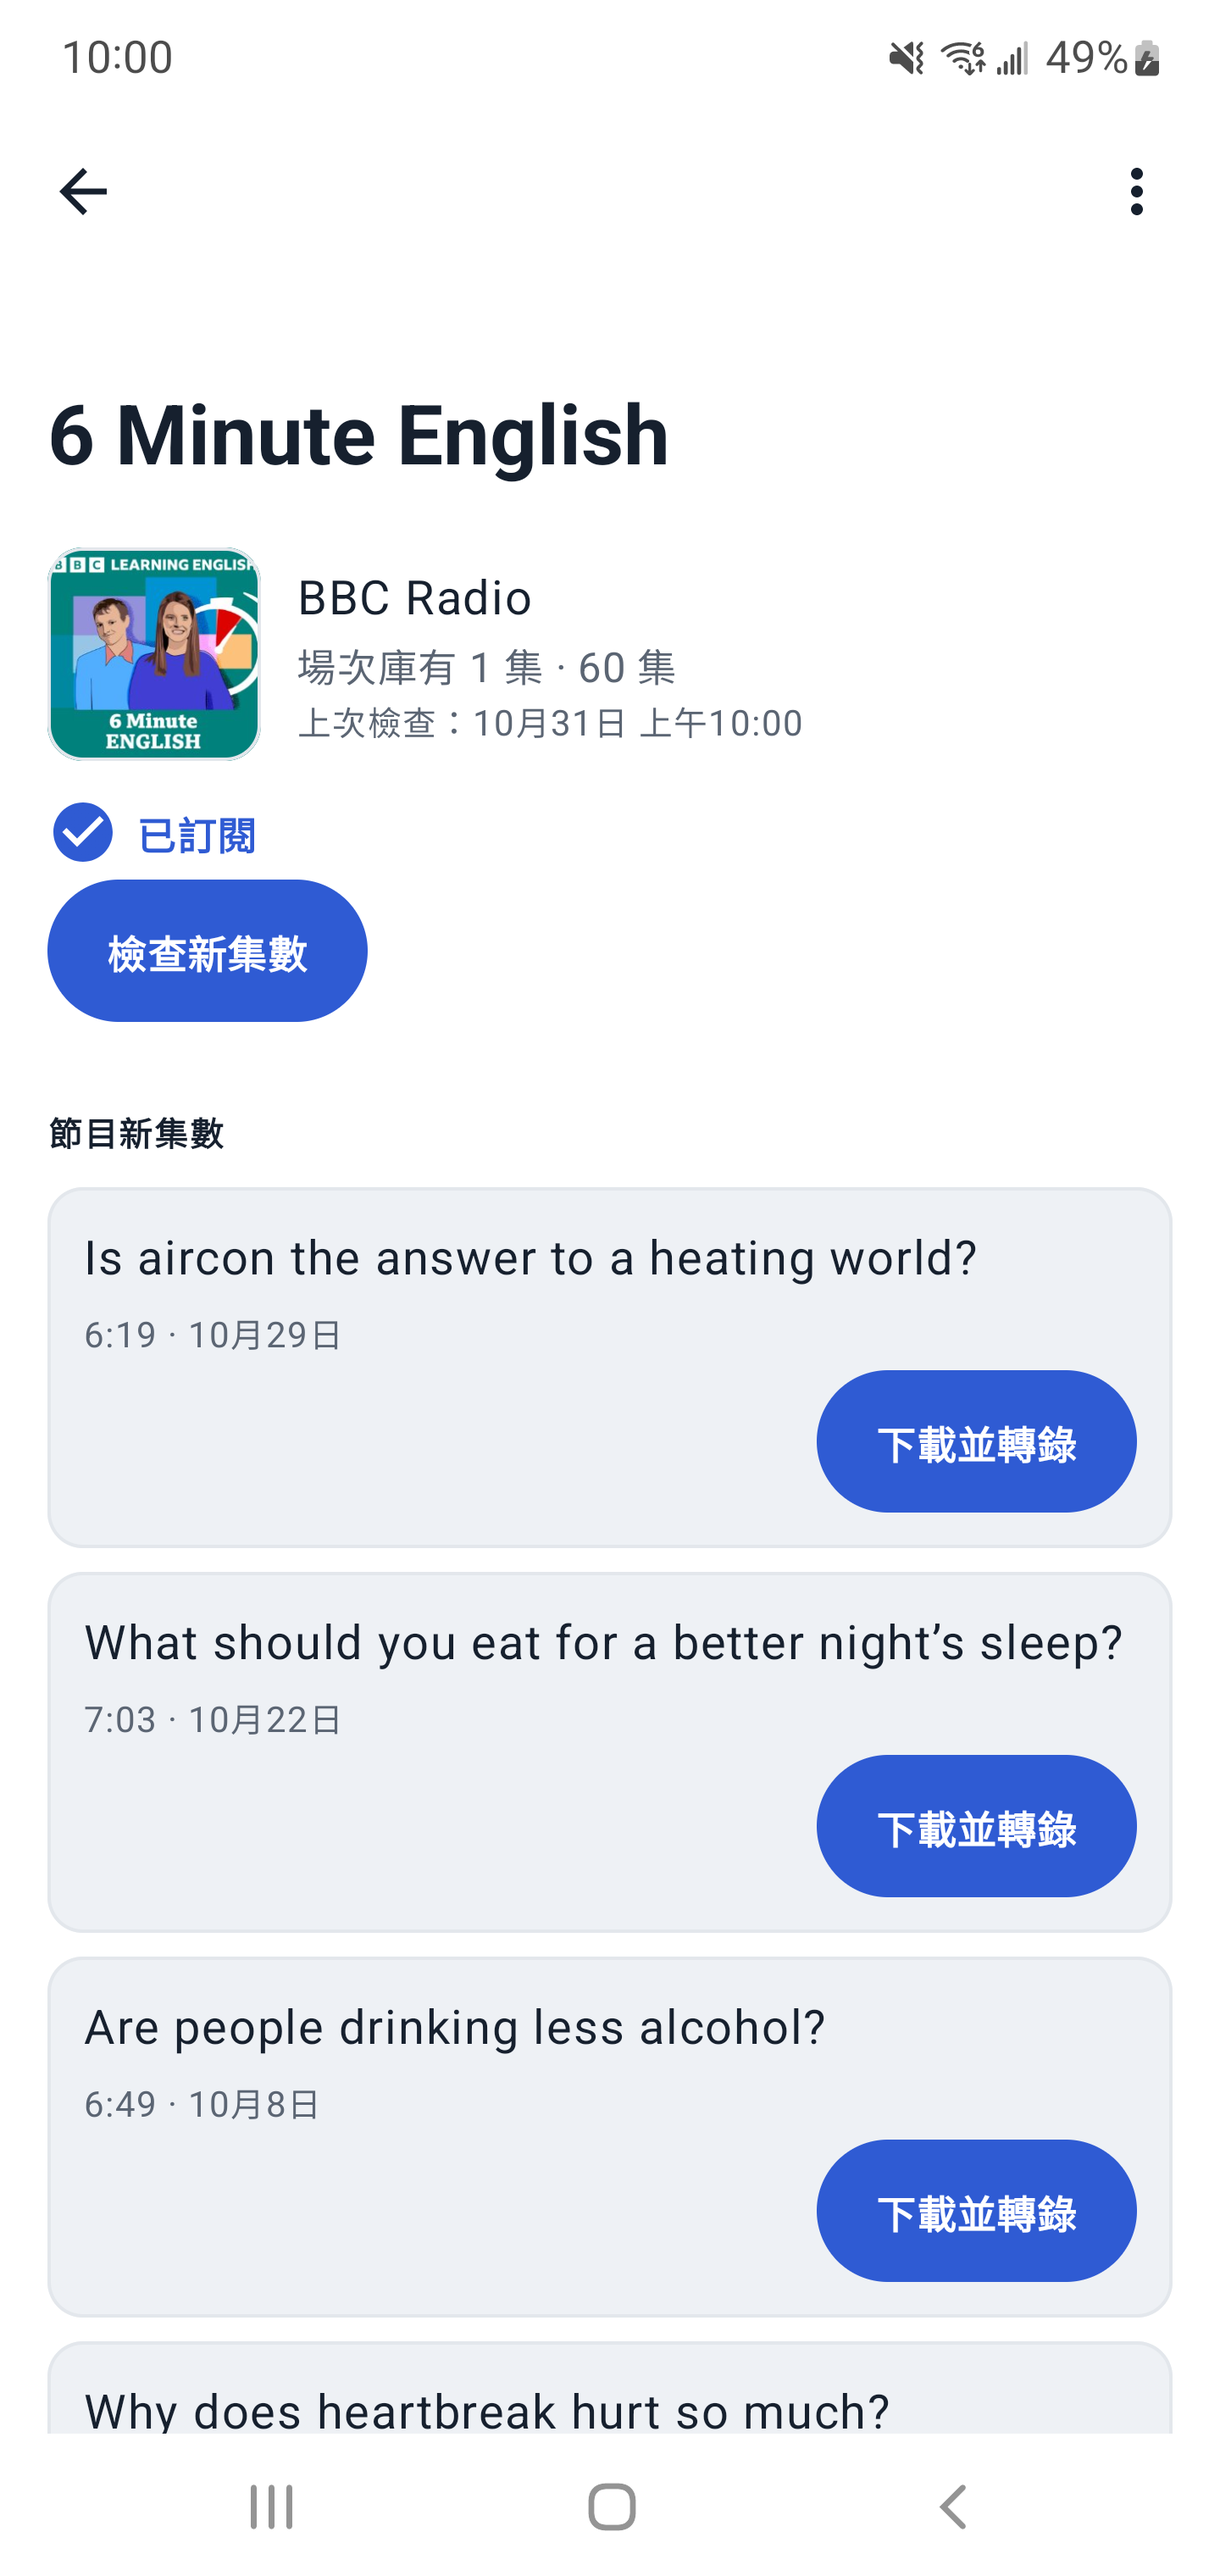
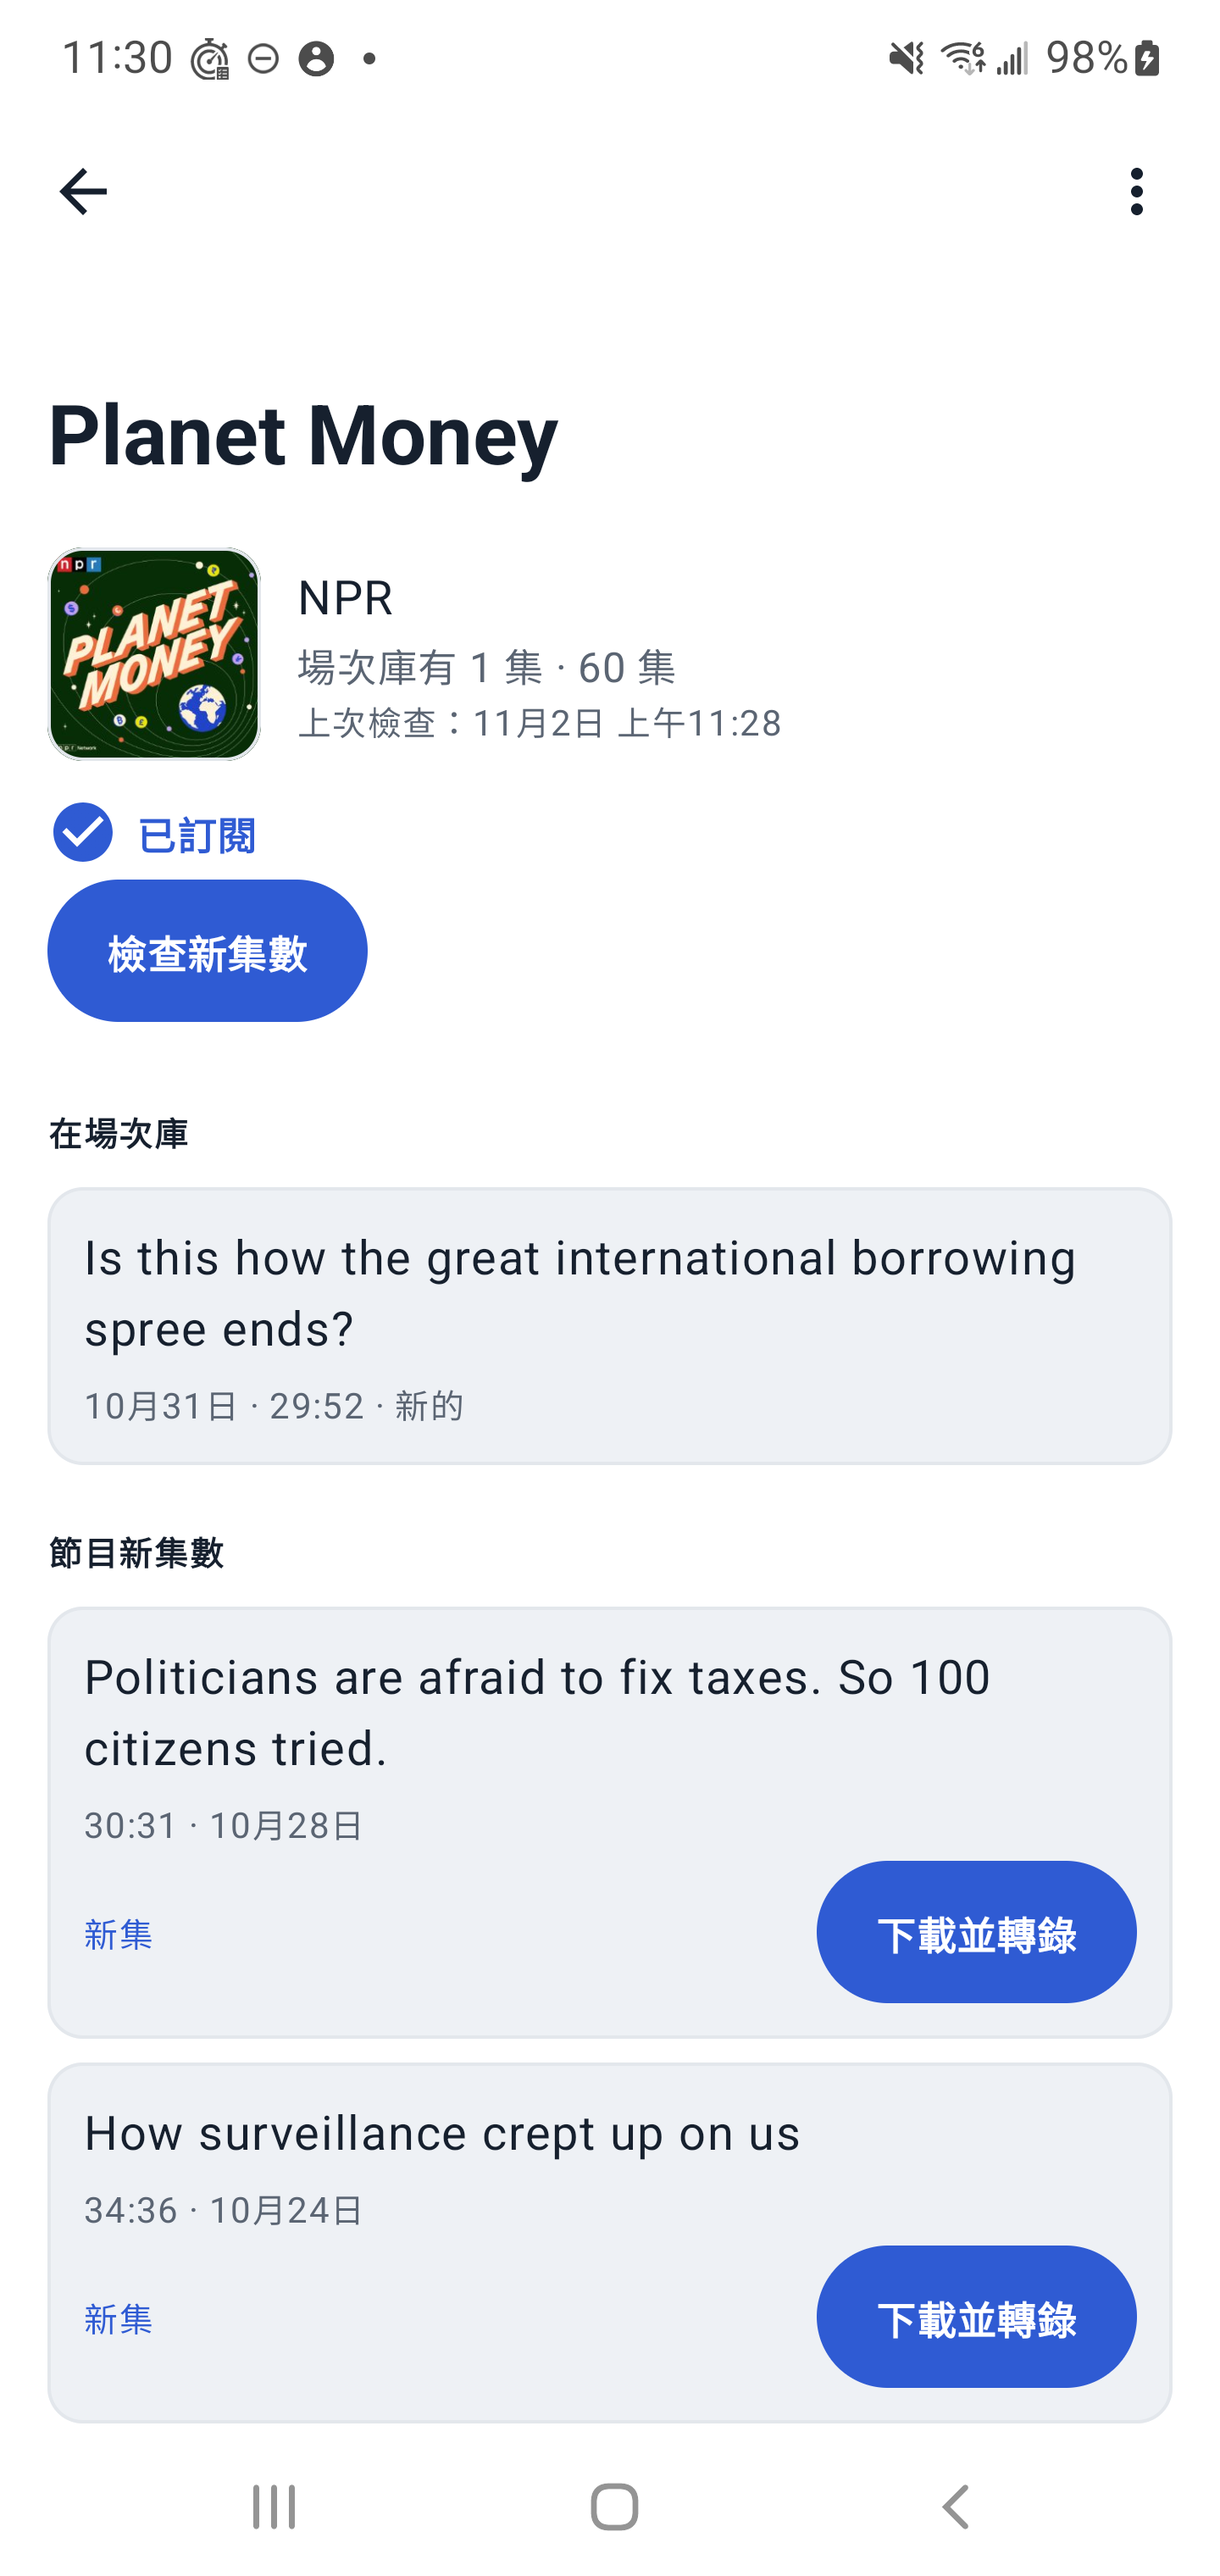
docs(android): guide channel page reshot with the library first, feed collapsed

diff --git a/docs/USER_GUIDE.md b/docs/USER_GUIDE.md
@@ -228,7 +228,7 @@ App 不登入任何帳號，也不直接上傳到雲端。
 | 訂閱此節目 | ＋ → Podcast → 搜尋 → 點節目 → 「訂閱此節目」 | 寫入訂閱；目前 feed 裡的單集全部記為「已看過」，不會一次下載舊集；按鈕改成「已訂閱」，點它開節目頁 | ✅ 手動（Note 10+）、✅ 自動（SubscriptionsTest） |
 | 貼上 RSS 連結 | ＋ → Podcast →「貼上 RSS 連結」，或節目清單右上角連結圖示 | 剪貼簿有網址時自動帶入；「預覽」顯示節目名稱與集數 →「訂閱此節目」 | ✅ 手動（Note 10+，`vox_sub_feed`） |
 | 節目清單 | ＋ → 節目 | 每個訂閱一列：節目名稱、出演者、「N 集 · 上次檢查」或「已暫停 · 不會檢查新集數」；有新集時顯示「N 集新」徽章；右上角「全部檢查」略過暫停中的節目 | ✅ 手動（Note 10+） |
-| 節目頁 | 節目清單 → 點一列，或首頁 Podcast 篩選中點節目標題 | 封面、出演者、「場次庫有 N 集 · M 集」、上次檢查時間、「訂閱／已訂閱」與「檢查新集數」；先列「節目新集數」（還不在場次庫的單集，最新在前，可「下載並轉錄」），再列「在場次庫」的單集。沒訂閱的節目也能開 | ✅ 手動（Note 10+、Galaxy A53） |
+| 節目頁 | 節目清單 → 點一列，或首頁 Podcast 篩選中點節目標題 | 封面、出演者、「場次庫有 N 集 · M 集」、上次檢查時間、「訂閱／已訂閱」與「檢查新集數」；先列「在場次庫」的單集，再列「節目新集數」（還不在場次庫的單集，最新在前，可「下載並轉錄」；先顯示最新 5 集，「顯示全部 N 集」展開其餘，「收合」收回）；場次庫還沒有單集時，節目新集數排在最上面。沒訂閱的節目也能開 | ✅ 手動（Note 10+、Galaxy A53） |
 | 下載並轉錄 | 節目頁 → 某集「下載並轉錄」 | 首頁立刻出現這一集並下載、轉錄；同一集再按一次不會產生第二列，而是提示「已在場次庫 · 開啟該場次」 | ✅ 手動（Note 10+，重複提交只得一列） |
 | 空間不足 | 可用空間不足以放下這一集（約檔案 3 倍＋200 MB） | 不下載，提示「空間不足 · 等待空間」；下載途中磁碟寫滿時該列顯示同一句並暫停（保留已下載部分），有空間後自動接續，不標為失敗 | ✅ 手動（Note 10+，`vox_sub_lowspace` 模擬）、✅ 自動（以錯誤訊息判斷，網路錯誤不誤判） |
 | 暫停／繼續訂閱、分享、刪除 | 節目清單長按一列，或節目頁右上角 ⋮ | 暫停後「全部檢查」略過它（節目頁手動檢查仍可用）；分享送出「節目名稱 — RSS 連結」；刪除後可在提示列「復原」，已下載的場次保留 | ✅ 手動（Note 10+，暫停後全部檢查略過） |
